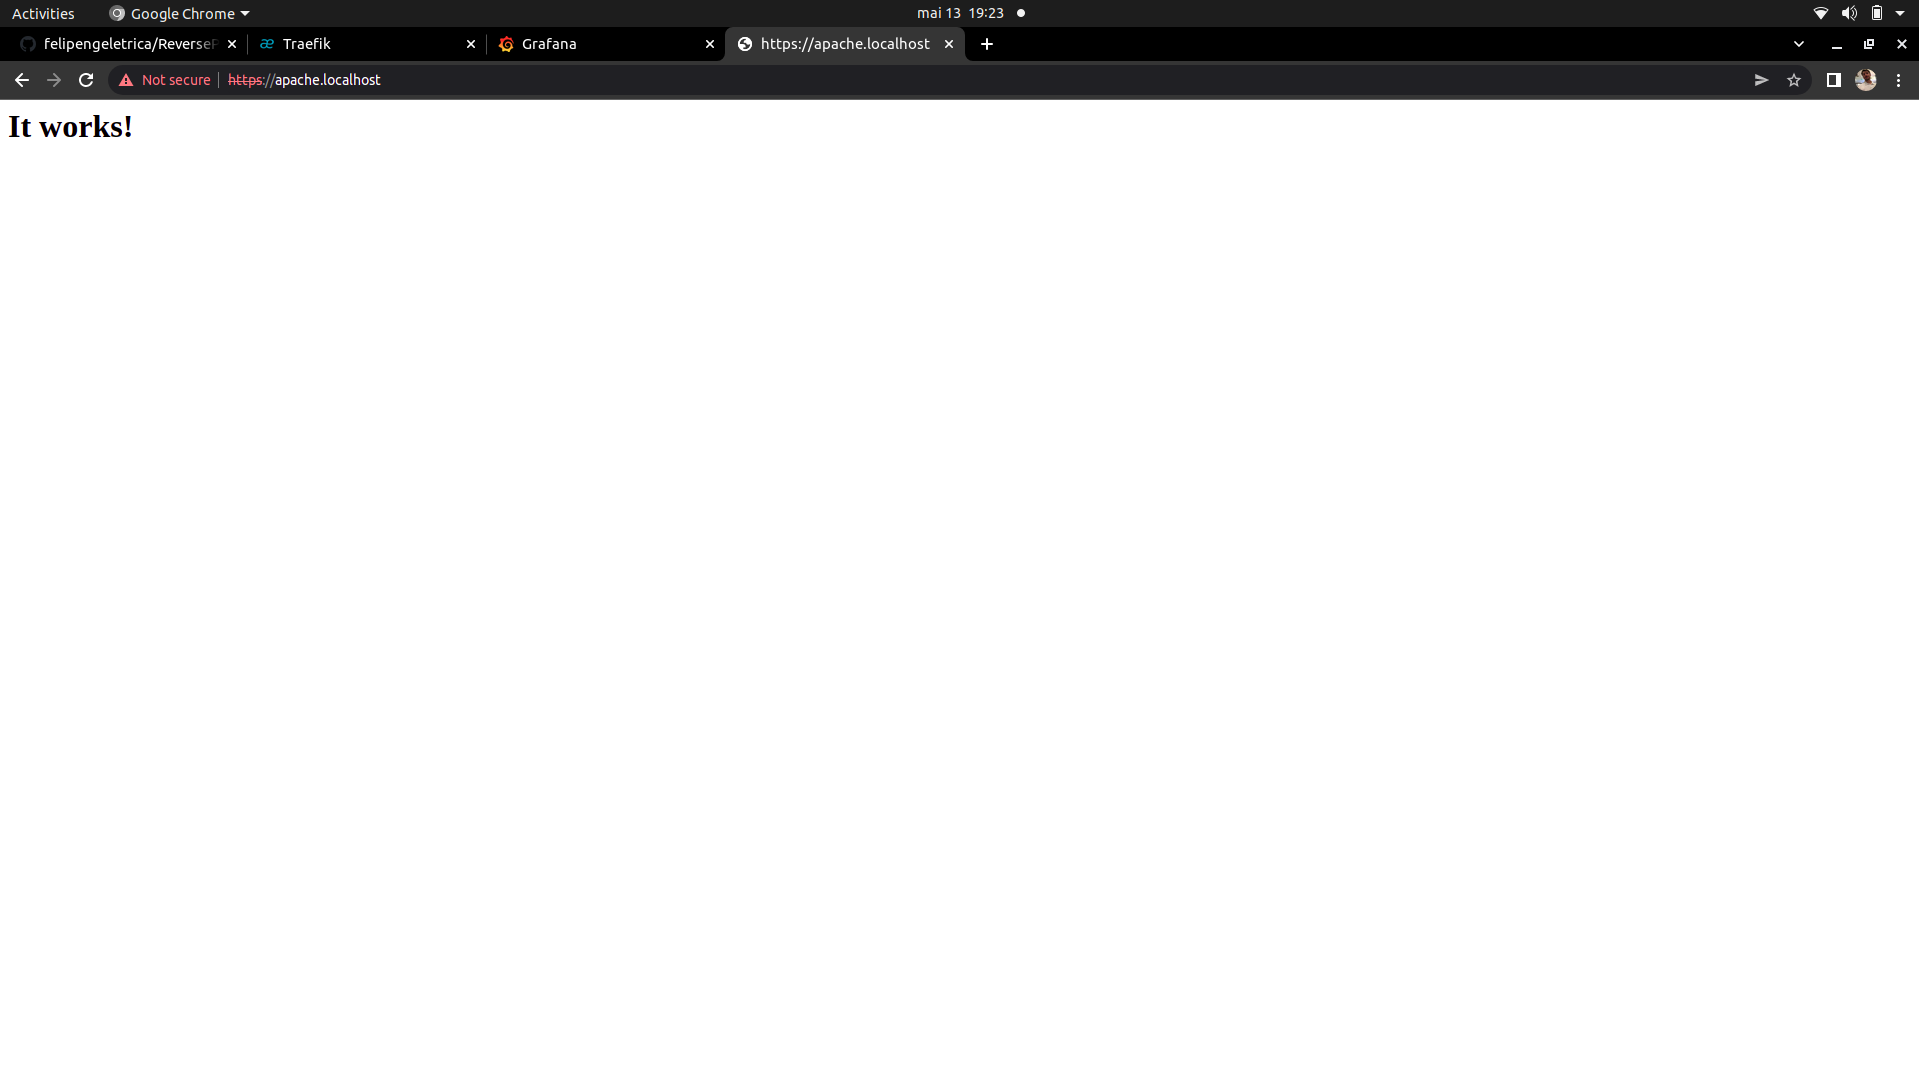
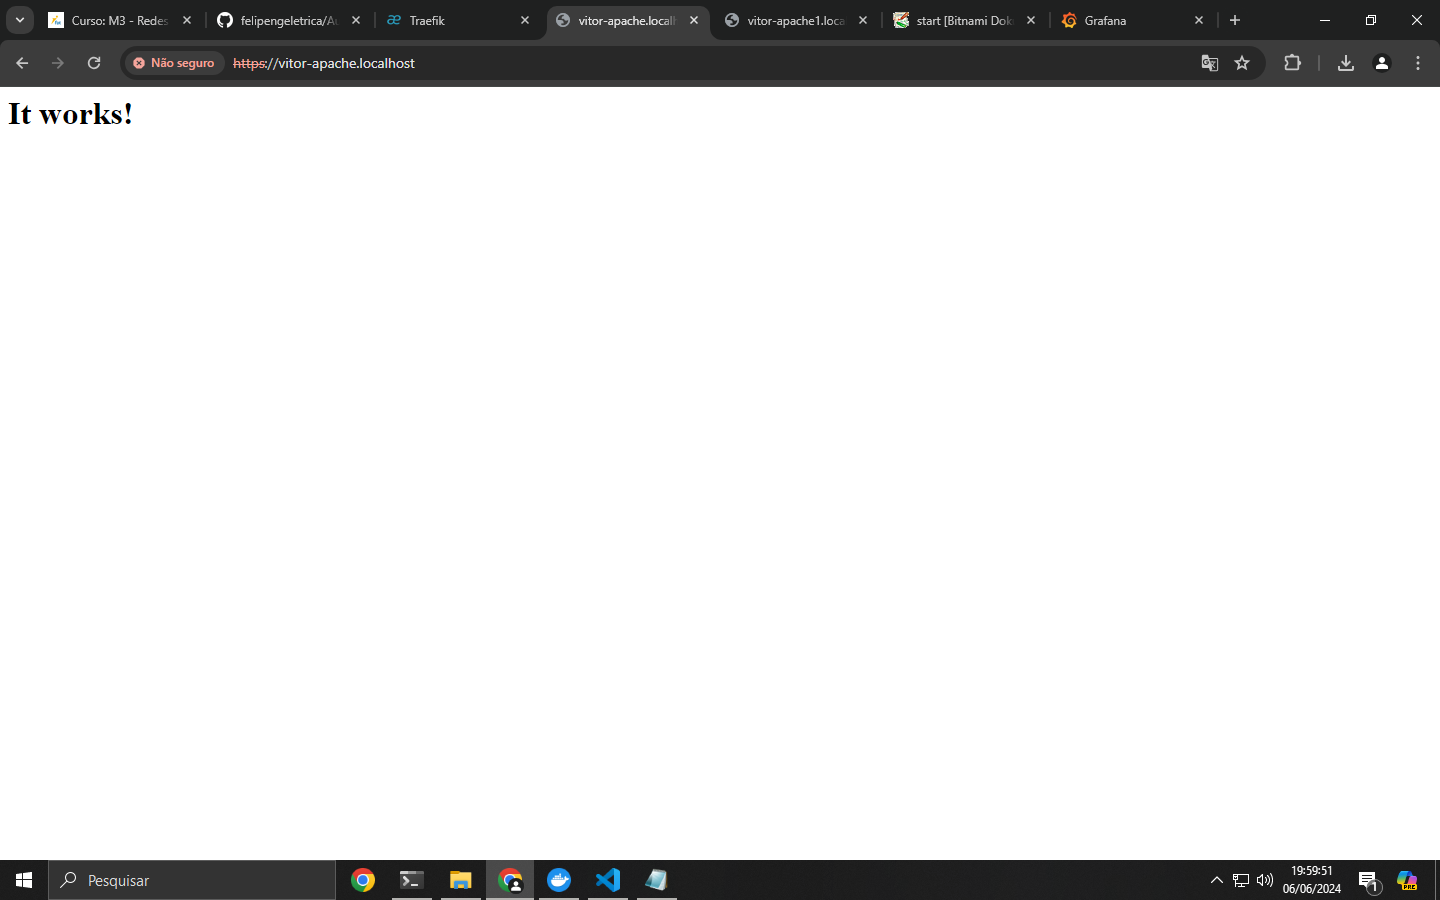
Atualização do trabalho

Changed region(s): [[0.0, 0.0, 1.0, 0.1556], [0.0, 0.9333, 1.0, 1.0]]

diff --git a/README.md b/README.md
@@ -1,44 +1,24 @@
-# Projeto PROXY reverso  (DIDÁTICO PARA O USO NAS AULAS DE REDES DE COMPUTADORES)
+Para aplicar as mudanças solicitadas, as seguintes modificações foram feitas:
 
- Utilizando o Traefik para servidor Apache, Grafana e monitoramento utilizando o dashboard próprio do Traefik.
-    
-Este projeto utiliza Docker facilitando a implantação (deploy) dos serviços. 
- ***
+Os hosts estavam definidos na linha 28 como dashboard.localhost, 
+Na linha 46 como apache.localhost,
+na linha 64 como apache1.localhost, 
+linha 82 como dokuwiki.localhost 
+e linha 97 como grafana.localhost.
 
- ## Implantação dos serviços
- Abrir o terminal e execute os seguintes comandos:
+Após isso foram atualizados para:
 
-Construindo e excutando os serviços (pressione ctrl+c para cencelar):
+"vitor-traefik.localhost"
+![Testando o Apache](doc/traefik.png) 
 
- > $ docker-compose up --build
+"vitor-apache.localhost"
+![Testando o Apache](doc/apache.png) 
 
- Utilize -d para dar um "detach" rodar o serviço na máquina
-
-> $ docker-compose up --build -d
-
-Parando serviços: 
-> $ docker-compose stop
-
-Removendo serviços: 
-> $ docker-compose rm
-***
-
- ## Testando os serviços
-
-Utilize o navegador web e digite a seguinte url:
-
-> http://apache.localhost
-
- ![Testando o Apache](doc/apache.png) 
-
- > http://grafana.localhost
-
- ![Testando o Grafana](doc/grafana.png) 
-
-  > http://dashboard.localhost
-
- ![Testando o DocuWiki](doc/DocuWiki.png) 
-
-  > http://dashboard.localhost
-
- ![Testando o Traefik](doc/dashboard.png) 
+"vitor-apache1.localhost"
+![Testando o Apache](doc/apache1.png) 
+  
+"vitor-dokuwiki.localhost"
+![Testando o DocuWiki](doc/docuWiki.png)
+  
+e "vitor-grafana.localhost"
+![Testando o Grafana](doc/grafana.png)
